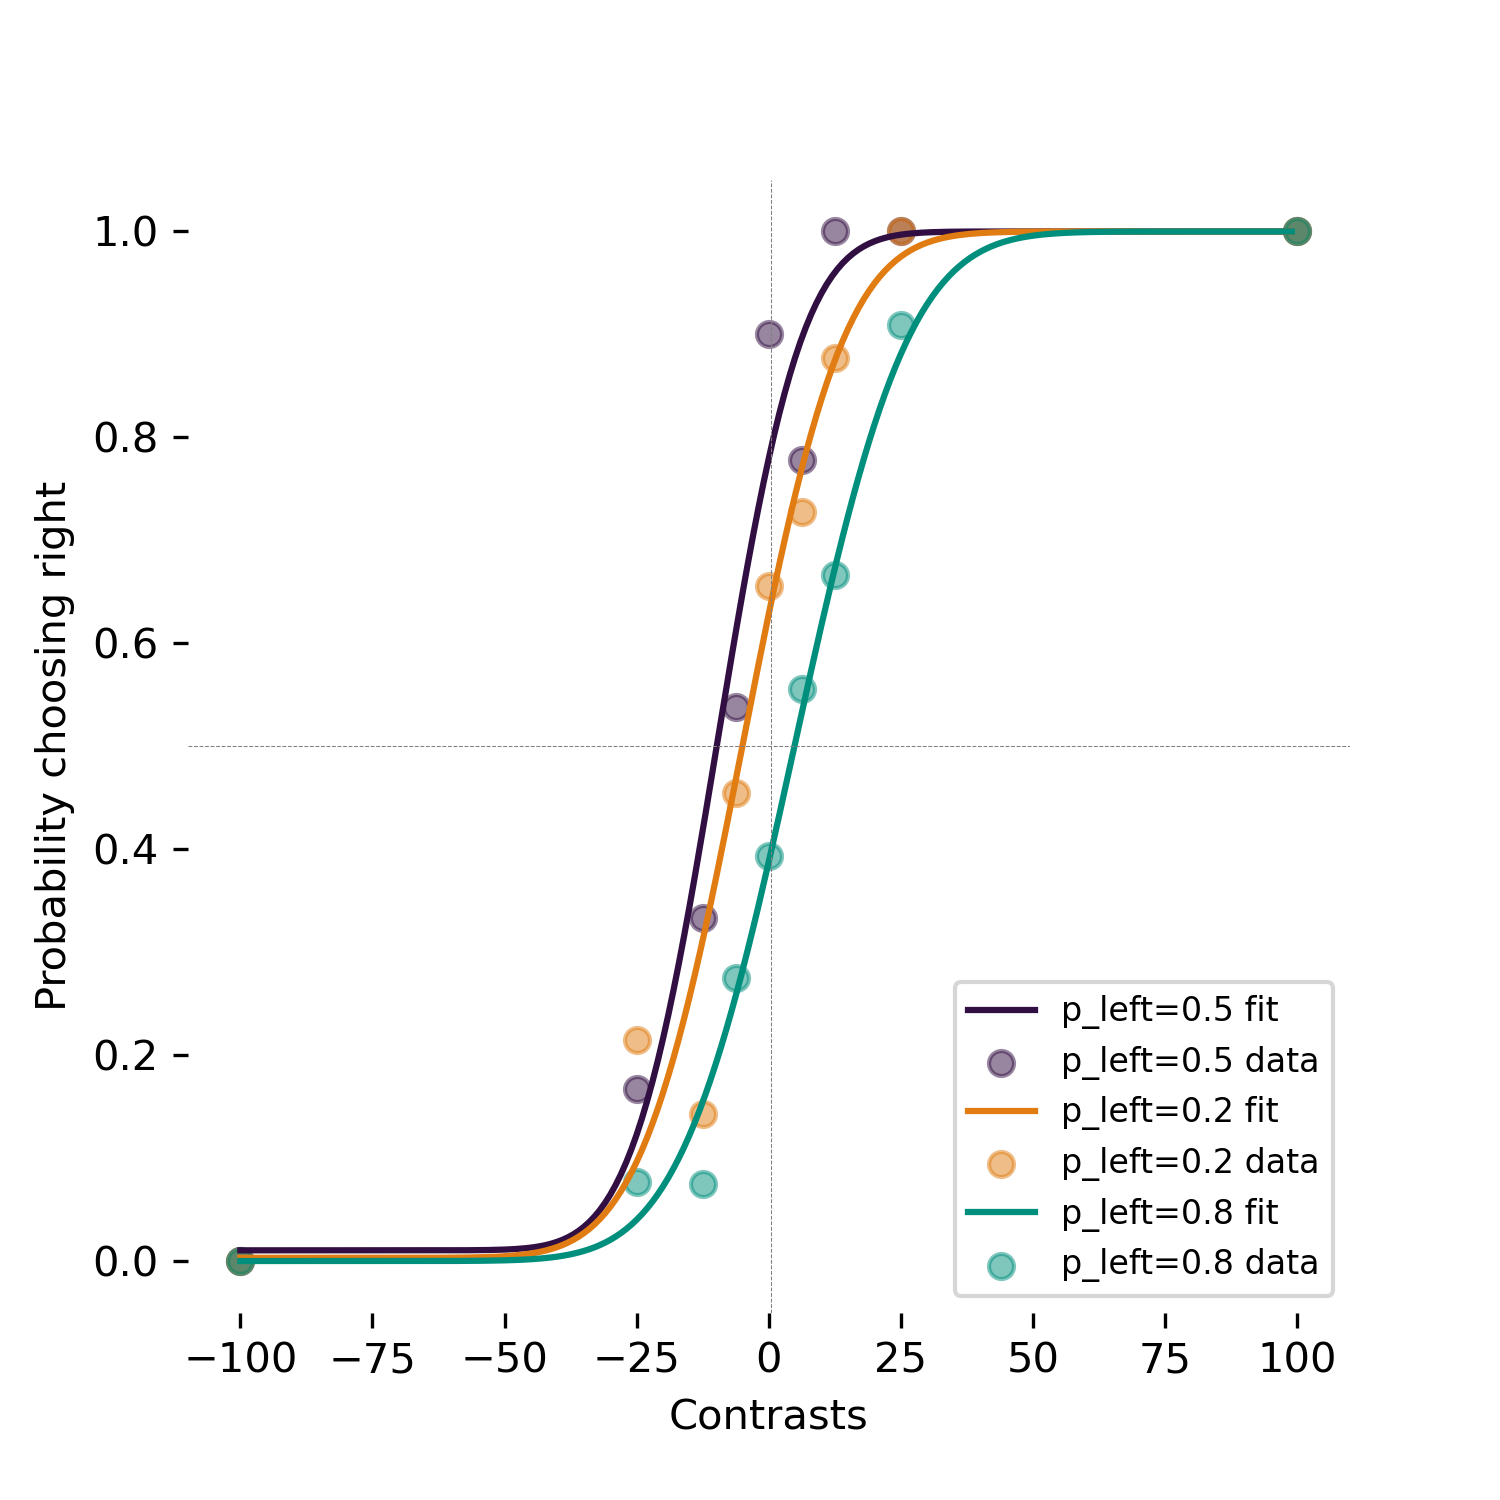
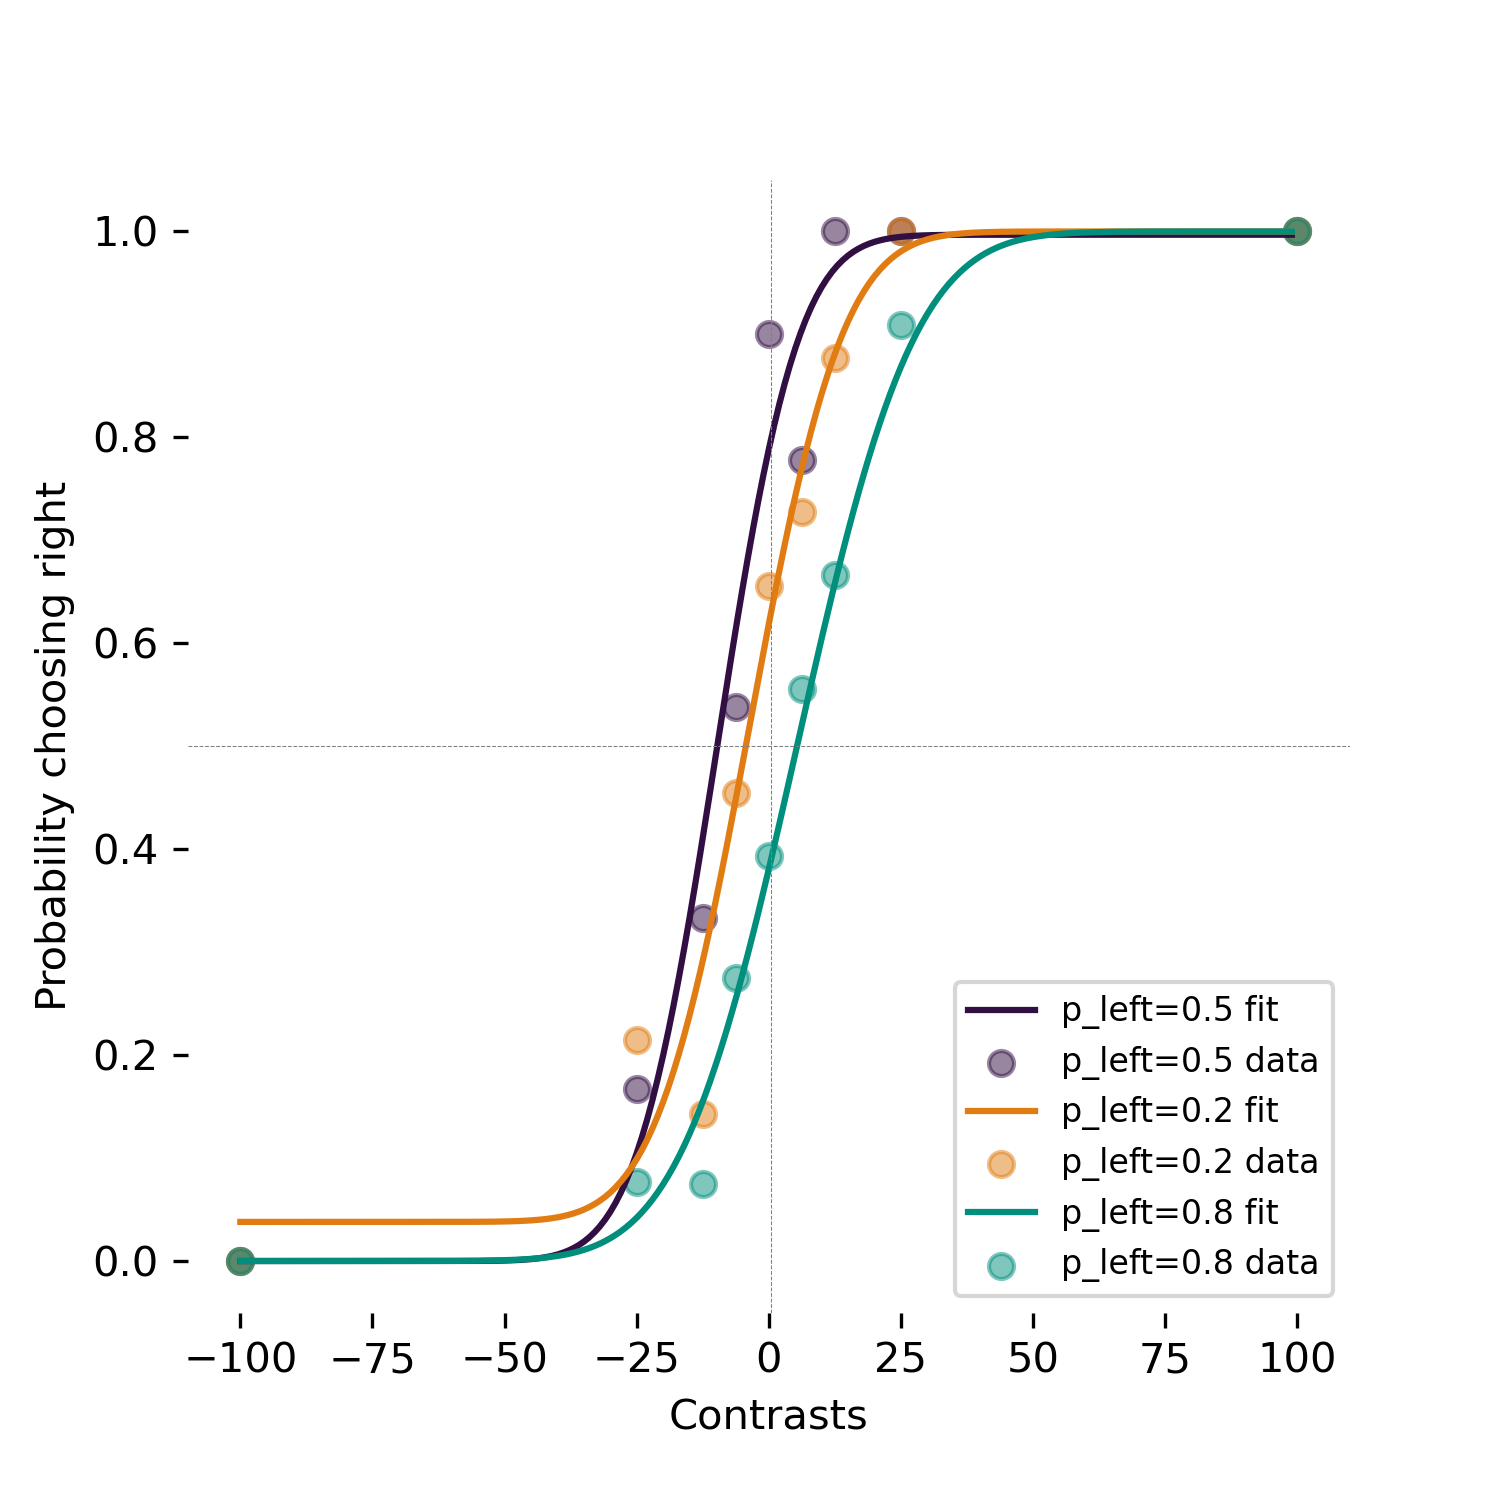
optimized plot settings and example plot

Changed region(s): [[0.1533, 0.276, 0.552, 0.8587], [0.5213, 0.1533, 0.7053, 0.3987]]

diff --git a/psychometric_plot.py b/psychometric_plot.py
@@ -26,7 +26,7 @@ from behav_functions import load_trials
 import matplotlib.pyplot as plt
 
 #check the eids from a certain subject
-eids = one.search(subject='ZFM-04019')
+eids = one.search(subject='ZFM-04019') 
 len(eids)
 eid = eids[12] 
 #another example session eid, from the link above in the beginning of this file 
@@ -131,7 +131,7 @@ def compute_psychometric(trials, signed_contrast=None, block=None, plotting=Fals
             parmax=np.array([np.max(contrasts), 100., 1, 1]))
 
     return psych
-def get_signed_contrast(trials):
+def get_signed_contrast(trials): 
     """
     Compute signed contrast from trials object
 
@@ -142,6 +142,9 @@ def get_signed_contrast(trials):
     # Replace NaNs with zeros, stack and take the difference
     contrast = np.nan_to_num(np.c_[trials['contrastLeft'], trials['contrastRight']])
     return np.diff(contrast).flatten() * 100
+
+contrasts_2 = [-100. , -25. , 0. , 25. , 100. ]
+
 def plot_psychometric(trials, ax=None, title=None, **kwargs):
     """
     Function to plot pyschometric curve plots a la datajoint webpage
@@ -187,7 +190,8 @@ def plot_psychometric(trials, ax=None, title=None, **kwargs):
               fontsize=8)
     ax.set_ylim(-0.05, 1.05)
     ax.set_ylabel('Probability choosing right')
-    ax.set_xlabel('Contrasts')
+    ax.set_xlabel('Contrasts') 
+    plt.xticks(contrasts_2)
     plt.axhline(y=0.5,color = 'gray', linestyle = '--',linewidth=0.25) 
     plt.axvline(x=0.5,color = 'gray', linestyle = '--',linewidth=0.25) 
     ax.spines['top'].set_visible(False)
@@ -199,7 +203,7 @@ def plot_psychometric(trials, ax=None, title=None, **kwargs):
 
     return fig, ax
 fig, ax = plot_psychometric(trials)
-fig.savefig("test_my1stpsychometricplot.png")
+#fig.savefig("test_my1stpsychometricplot.png")
 
 
 
